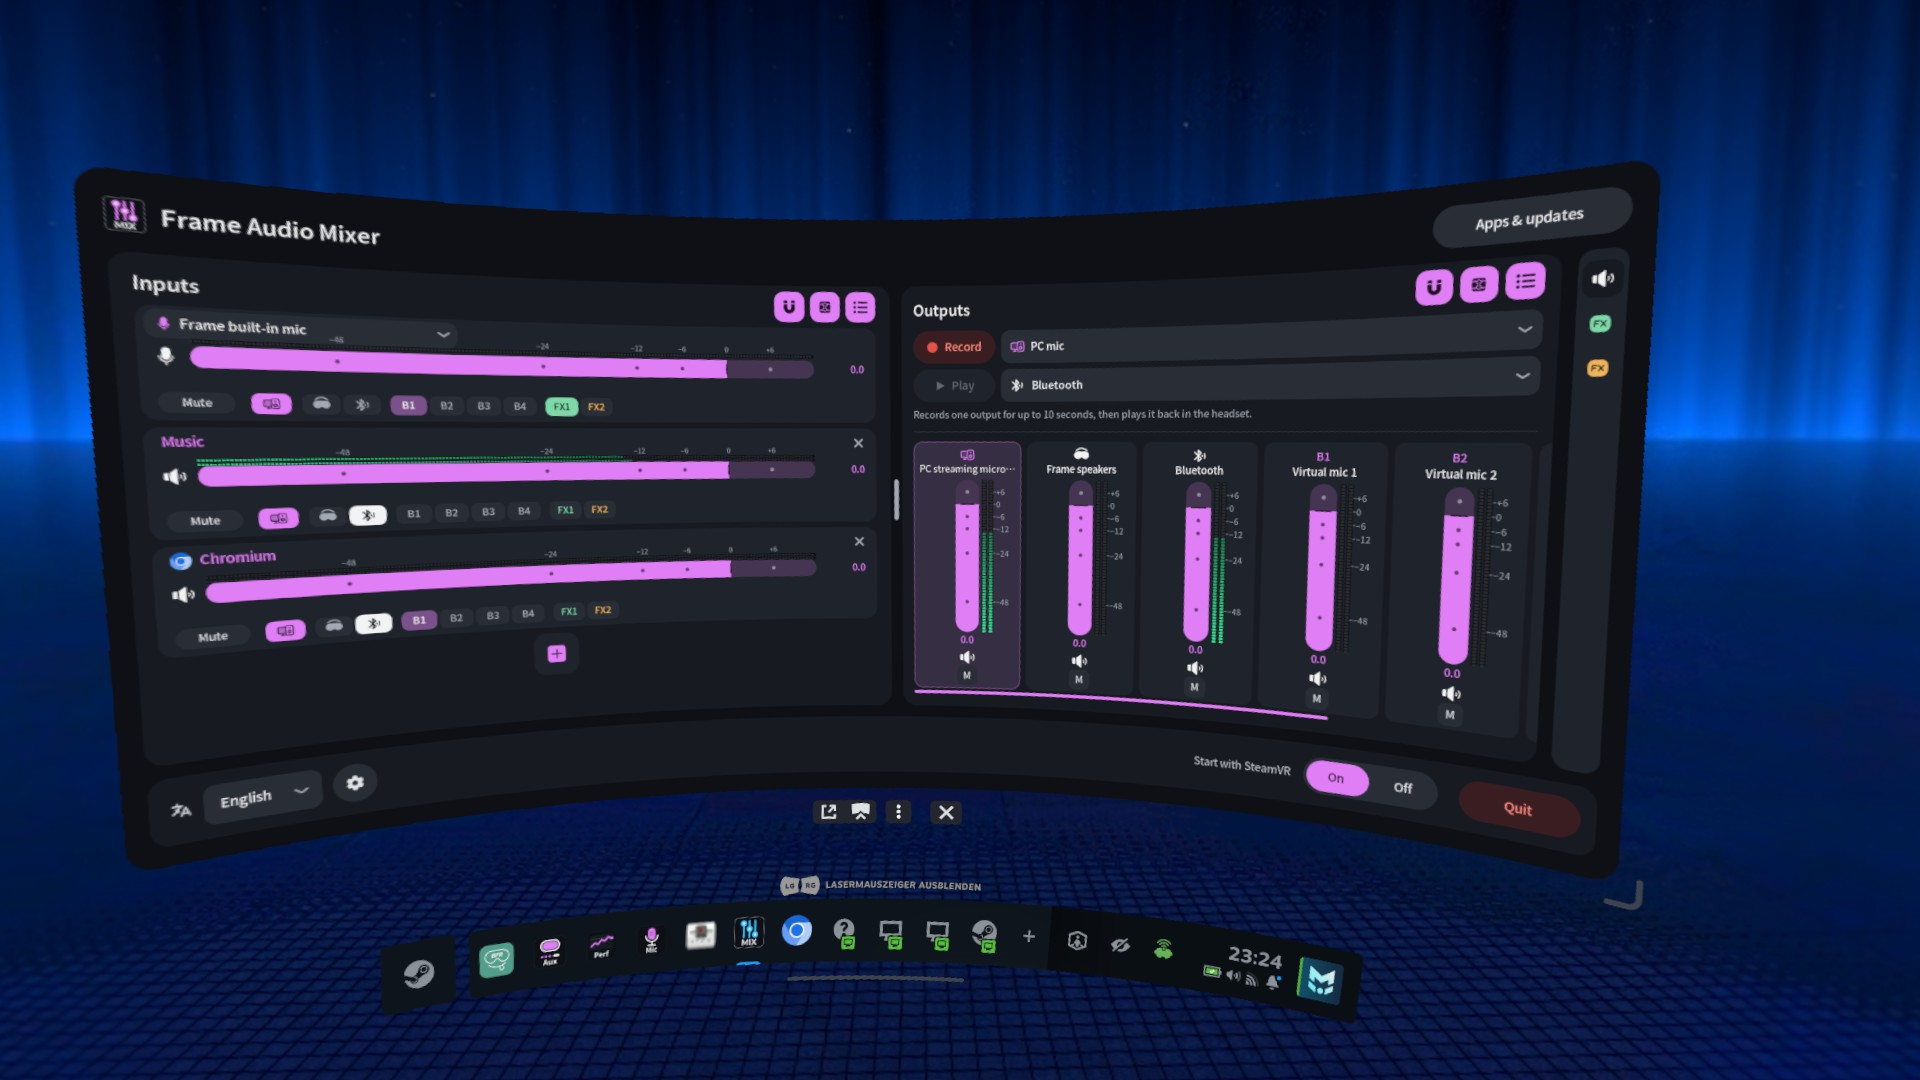
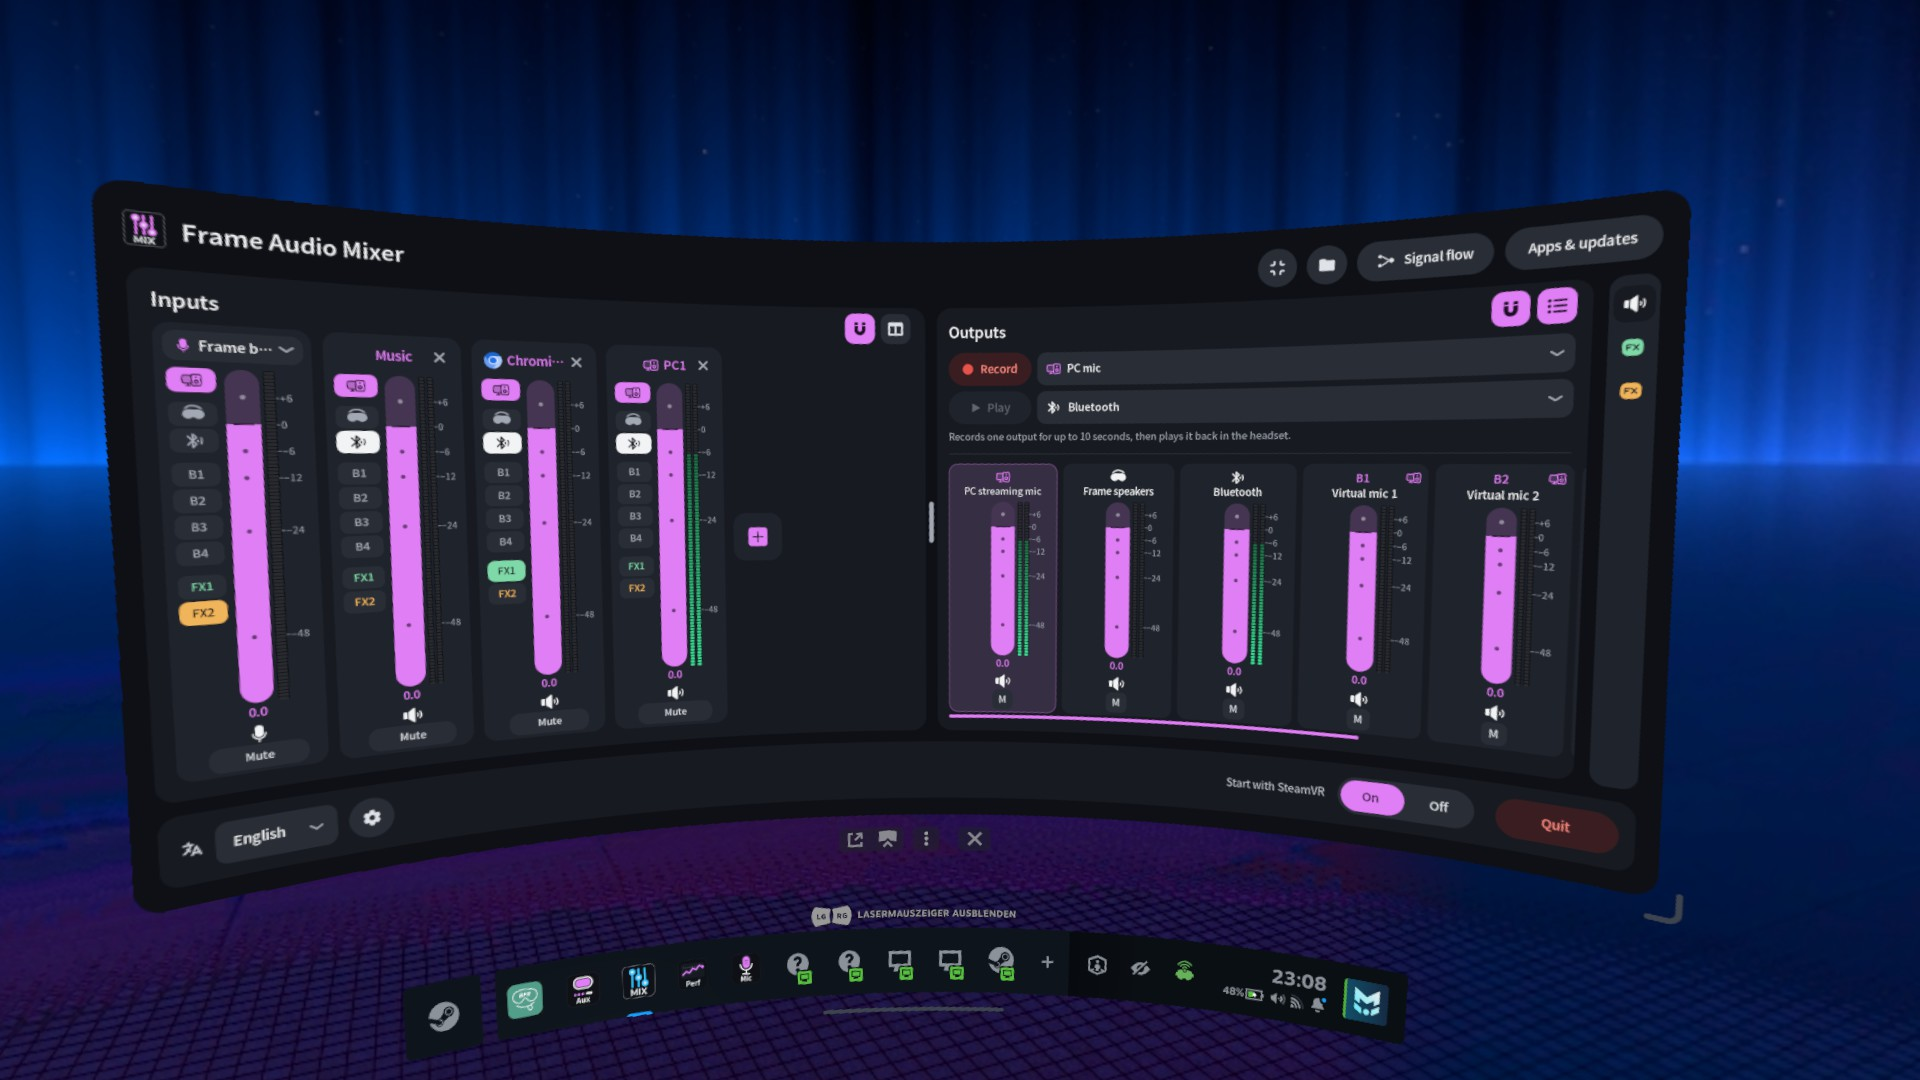
Show the 2.2.0 screenshots in the READMEs.
The four previews are now the mixer with a PC1 channel, the pink theme, the
signal flow and the mixer below Mixxx. The screenshots added with the
release under their capture names are dropped; they live on as the previews.

Changed region(s): [[0.0, 0.0306, 1.0, 1.0], [0.9062, 0.9778, 0.9375, 1.0]]

diff --git a/README.ja.md b/README.ja.md
@@ -44,12 +44,12 @@ curl -fsSL https://frame-audio-mixer.marcus-universe.com/i | sh
 
 <table>
   <tr>
-    <td width="50%"><img src="docs/assets/Preview-Frame-Audio-Mixer-1.jpg" alt="ワイド表示、青のテーマ" height="320"></td>
-    <td width="50%"><img src="docs/assets/Preview-Frame-Audio-Mixer-2.jpg" alt="入力が横並び、ピンクのテーマ" height="320"></td>
+    <td width="50%"><img src="docs/assets/Preview-Frame-Audio-Mixer-1.jpg" alt="PC1 チャンネルのあるミキサー、青のテーマ" height="320"></td>
+    <td width="50%"><img src="docs/assets/Preview-Frame-Audio-Mixer-2.jpg" alt="ミキサー、ピンクのテーマ" height="320"></td>
   </tr>
   <tr>
-    <td width="50%"><img src="docs/assets/Preview-Frame-Audio-Mixer-3.jpg" alt="エフェクトバス、ピンクのテーマ" height="320"></td>
-    <td width="50%"><img src="docs/assets/Preview-Frame-Audio-Mixer-4.jpg" alt="ダッシュボード、青のテーマ" height="320"></td>
+    <td width="50%"><img src="docs/assets/Preview-Frame-Audio-Mixer-3.jpg" alt="信号フロー、青のテーマ" height="320"></td>
+    <td width="50%"><img src="docs/assets/Preview-Frame-Audio-Mixer-4.jpg" alt="SteamVR で Mixxx の下に置いたミキサー" height="320"></td>
   </tr>
 </table>
 

diff --git a/README.sc.md b/README.sc.md
@@ -44,12 +44,12 @@ curl -fsSL https://frame-audio-mixer.marcus-universe.com/i | sh
 
 <table>
   <tr>
-    <td width="50%"><img src="docs/assets/Preview-Frame-Audio-Mixer-1.jpg" alt="宽屏，蓝色主题" height="320"></td>
-    <td width="50%"><img src="docs/assets/Preview-Frame-Audio-Mixer-2.jpg" alt="输入横排，粉色主题" height="320"></td>
+    <td width="50%"><img src="docs/assets/Preview-Frame-Audio-Mixer-1.jpg" alt="带 PC1 通道的混音器，蓝色主题" height="320"></td>
+    <td width="50%"><img src="docs/assets/Preview-Frame-Audio-Mixer-2.jpg" alt="混音器，粉色主题" height="320"></td>
   </tr>
   <tr>
-    <td width="50%"><img src="docs/assets/Preview-Frame-Audio-Mixer-3.jpg" alt="效果总线，粉色主题" height="320"></td>
-    <td width="50%"><img src="docs/assets/Preview-Frame-Audio-Mixer-4.jpg" alt="仪表板，蓝色主题" height="320"></td>
+    <td width="50%"><img src="docs/assets/Preview-Frame-Audio-Mixer-3.jpg" alt="信号流向，蓝色主题" height="320"></td>
+    <td width="50%"><img src="docs/assets/Preview-Frame-Audio-Mixer-4.jpg" alt="在 SteamVR 中放在 Mixxx 下方的混音器" height="320"></td>
   </tr>
 </table>
 

diff --git a/README.fr.md b/README.fr.md
@@ -44,12 +44,12 @@ curl -fsSL https://frame-audio-mixer.marcus-universe.com/i | sh
 
 <table>
   <tr>
-    <td width="50%"><img src="docs/assets/Preview-Frame-Audio-Mixer-1.jpg" alt="Vue large, thème bleu" height="320"></td>
-    <td width="50%"><img src="docs/assets/Preview-Frame-Audio-Mixer-2.jpg" alt="Entrées en rangées, thème rose" height="320"></td>
+    <td width="50%"><img src="docs/assets/Preview-Frame-Audio-Mixer-1.jpg" alt="Mixeur avec un canal PC1, thème bleu" height="320"></td>
+    <td width="50%"><img src="docs/assets/Preview-Frame-Audio-Mixer-2.jpg" alt="Mixeur, thème rose" height="320"></td>
   </tr>
   <tr>
-    <td width="50%"><img src="docs/assets/Preview-Frame-Audio-Mixer-3.jpg" alt="Bus d'effets, thème rose" height="320"></td>
-    <td width="50%"><img src="docs/assets/Preview-Frame-Audio-Mixer-4.jpg" alt="Tableau de bord, thème bleu" height="320"></td>
+    <td width="50%"><img src="docs/assets/Preview-Frame-Audio-Mixer-3.jpg" alt="Flux du signal, thème bleu" height="320"></td>
+    <td width="50%"><img src="docs/assets/Preview-Frame-Audio-Mixer-4.jpg" alt="Mixeur sous Mixxx dans SteamVR" height="320"></td>
   </tr>
 </table>
 

diff --git a/README.de.md b/README.de.md
@@ -44,12 +44,12 @@ curl -fsSL https://frame-audio-mixer.marcus-universe.com/i | sh
 
 <table>
   <tr>
-    <td width="50%"><img src="docs/assets/Preview-Frame-Audio-Mixer-1.jpg" alt="Breite Ansicht, blaues Thema" height="320"></td>
-    <td width="50%"><img src="docs/assets/Preview-Frame-Audio-Mixer-2.jpg" alt="Eingänge als Zeilen, rosa Thema" height="320"></td>
+    <td width="50%"><img src="docs/assets/Preview-Frame-Audio-Mixer-1.jpg" alt="Mixer mit einem PC1-Kanal, blaues Thema" height="320"></td>
+    <td width="50%"><img src="docs/assets/Preview-Frame-Audio-Mixer-2.jpg" alt="Mixer, rosa Thema" height="320"></td>
   </tr>
   <tr>
-    <td width="50%"><img src="docs/assets/Preview-Frame-Audio-Mixer-3.jpg" alt="Effektbus, rosa Thema" height="320"></td>
-    <td width="50%"><img src="docs/assets/Preview-Frame-Audio-Mixer-4.jpg" alt="Dashboard, blaues Thema" height="320"></td>
+    <td width="50%"><img src="docs/assets/Preview-Frame-Audio-Mixer-3.jpg" alt="Signalfluss, blaues Thema" height="320"></td>
+    <td width="50%"><img src="docs/assets/Preview-Frame-Audio-Mixer-4.jpg" alt="Mixer unter Mixxx in SteamVR" height="320"></td>
   </tr>
 </table>
 

diff --git a/README.es.md b/README.es.md
@@ -44,12 +44,12 @@ curl -fsSL https://frame-audio-mixer.marcus-universe.com/i | sh
 
 <table>
   <tr>
-    <td width="50%"><img src="docs/assets/Preview-Frame-Audio-Mixer-1.jpg" alt="Vista ancha, tema azul" height="320"></td>
-    <td width="50%"><img src="docs/assets/Preview-Frame-Audio-Mixer-2.jpg" alt="Entradas en filas, tema rosa" height="320"></td>
+    <td width="50%"><img src="docs/assets/Preview-Frame-Audio-Mixer-1.jpg" alt="Mezclador con un canal PC1, tema azul" height="320"></td>
+    <td width="50%"><img src="docs/assets/Preview-Frame-Audio-Mixer-2.jpg" alt="Mezclador, tema rosa" height="320"></td>
   </tr>
   <tr>
-    <td width="50%"><img src="docs/assets/Preview-Frame-Audio-Mixer-3.jpg" alt="Bus de efectos, tema rosa" height="320"></td>
-    <td width="50%"><img src="docs/assets/Preview-Frame-Audio-Mixer-4.jpg" alt="Panel, tema azul" height="320"></td>
+    <td width="50%"><img src="docs/assets/Preview-Frame-Audio-Mixer-3.jpg" alt="Flujo de señal, tema azul" height="320"></td>
+    <td width="50%"><img src="docs/assets/Preview-Frame-Audio-Mixer-4.jpg" alt="Mezclador bajo Mixxx en SteamVR" height="320"></td>
   </tr>
 </table>
 

diff --git a/README.it.md b/README.it.md
@@ -44,12 +44,12 @@ curl -fsSL https://frame-audio-mixer.marcus-universe.com/i | sh
 
 <table>
   <tr>
-    <td width="50%"><img src="docs/assets/Preview-Frame-Audio-Mixer-1.jpg" alt="Vista larga, tema blu" height="320"></td>
-    <td width="50%"><img src="docs/assets/Preview-Frame-Audio-Mixer-2.jpg" alt="Ingressi in righe, tema rosa" height="320"></td>
+    <td width="50%"><img src="docs/assets/Preview-Frame-Audio-Mixer-1.jpg" alt="Mixer con un canale PC1, tema blu" height="320"></td>
+    <td width="50%"><img src="docs/assets/Preview-Frame-Audio-Mixer-2.jpg" alt="Mixer, tema rosa" height="320"></td>
   </tr>
   <tr>
-    <td width="50%"><img src="docs/assets/Preview-Frame-Audio-Mixer-3.jpg" alt="Bus effetti, tema rosa" height="320"></td>
-    <td width="50%"><img src="docs/assets/Preview-Frame-Audio-Mixer-4.jpg" alt="Dashboard, tema blu" height="320"></td>
+    <td width="50%"><img src="docs/assets/Preview-Frame-Audio-Mixer-3.jpg" alt="Flusso del segnale, tema blu" height="320"></td>
+    <td width="50%"><img src="docs/assets/Preview-Frame-Audio-Mixer-4.jpg" alt="Mixer sotto Mixxx in SteamVR" height="320"></td>
   </tr>
 </table>
 

diff --git a/README.md b/README.md
@@ -44,12 +44,12 @@ curl -fsSL https://frame-audio-mixer.marcus-universe.com/i | sh
 
 <table>
   <tr>
-    <td width="50%"><img src="docs/assets/Preview-Frame-Audio-Mixer-1.jpg" alt="Wide view, blue theme" height="320"></td>
-    <td width="50%"><img src="docs/assets/Preview-Frame-Audio-Mixer-2.jpg" alt="Input rows, pink theme" height="320"></td>
+    <td width="50%"><img src="docs/assets/Preview-Frame-Audio-Mixer-1.jpg" alt="Mixer with a PC1 channel, blue theme" height="320"></td>
+    <td width="50%"><img src="docs/assets/Preview-Frame-Audio-Mixer-2.jpg" alt="Mixer, pink theme" height="320"></td>
   </tr>
   <tr>
-    <td width="50%"><img src="docs/assets/Preview-Frame-Audio-Mixer-3.jpg" alt="Effect bus, pink theme" height="320"></td>
-    <td width="50%"><img src="docs/assets/Preview-Frame-Audio-Mixer-4.jpg" alt="Dashboard, blue theme" height="320"></td>
+    <td width="50%"><img src="docs/assets/Preview-Frame-Audio-Mixer-3.jpg" alt="Signal flow, blue theme" height="320"></td>
+    <td width="50%"><img src="docs/assets/Preview-Frame-Audio-Mixer-4.jpg" alt="Mixer below Mixxx in SteamVR" height="320"></td>
   </tr>
 </table>
 
